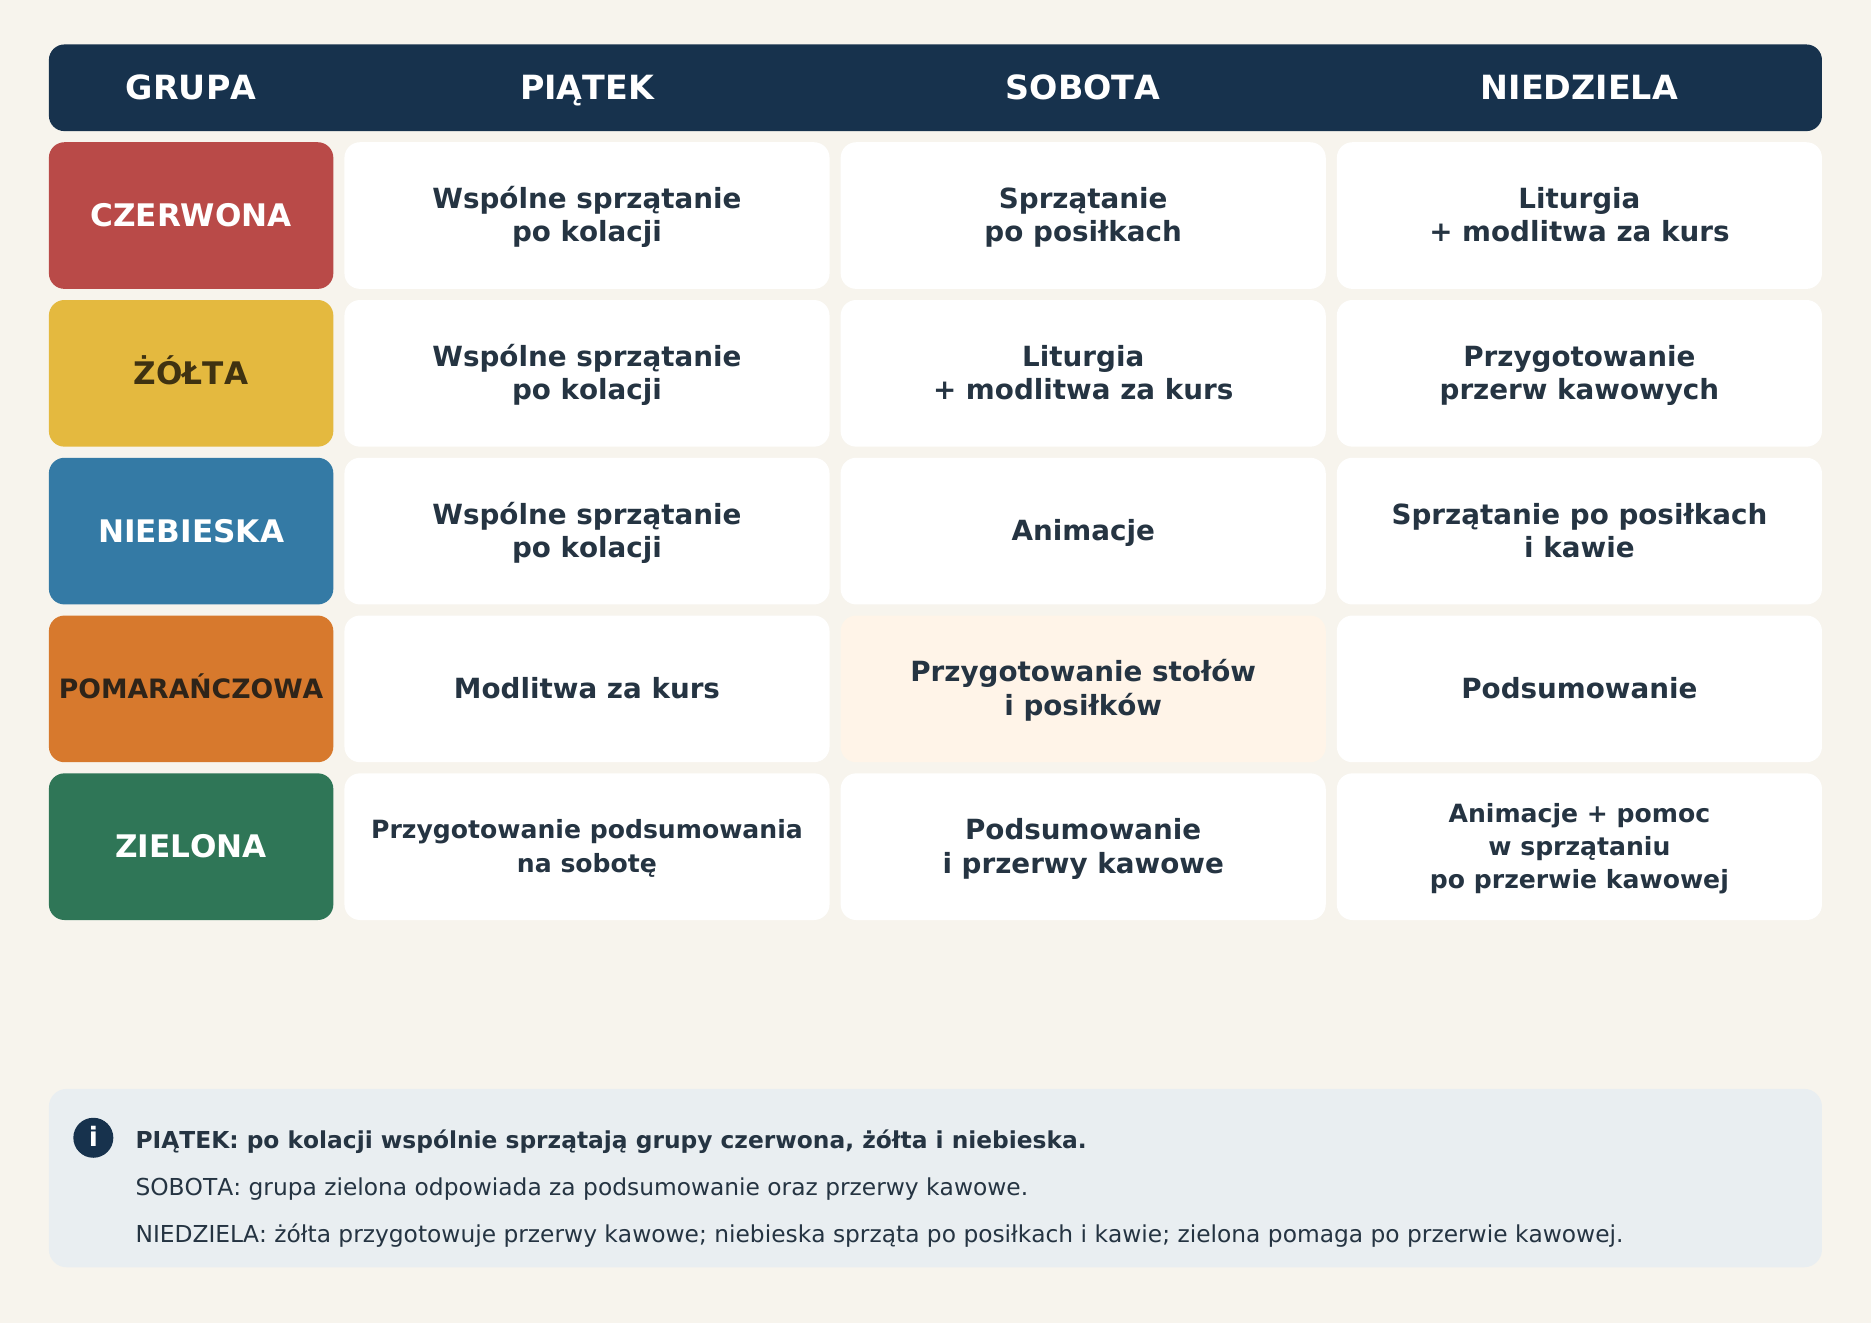
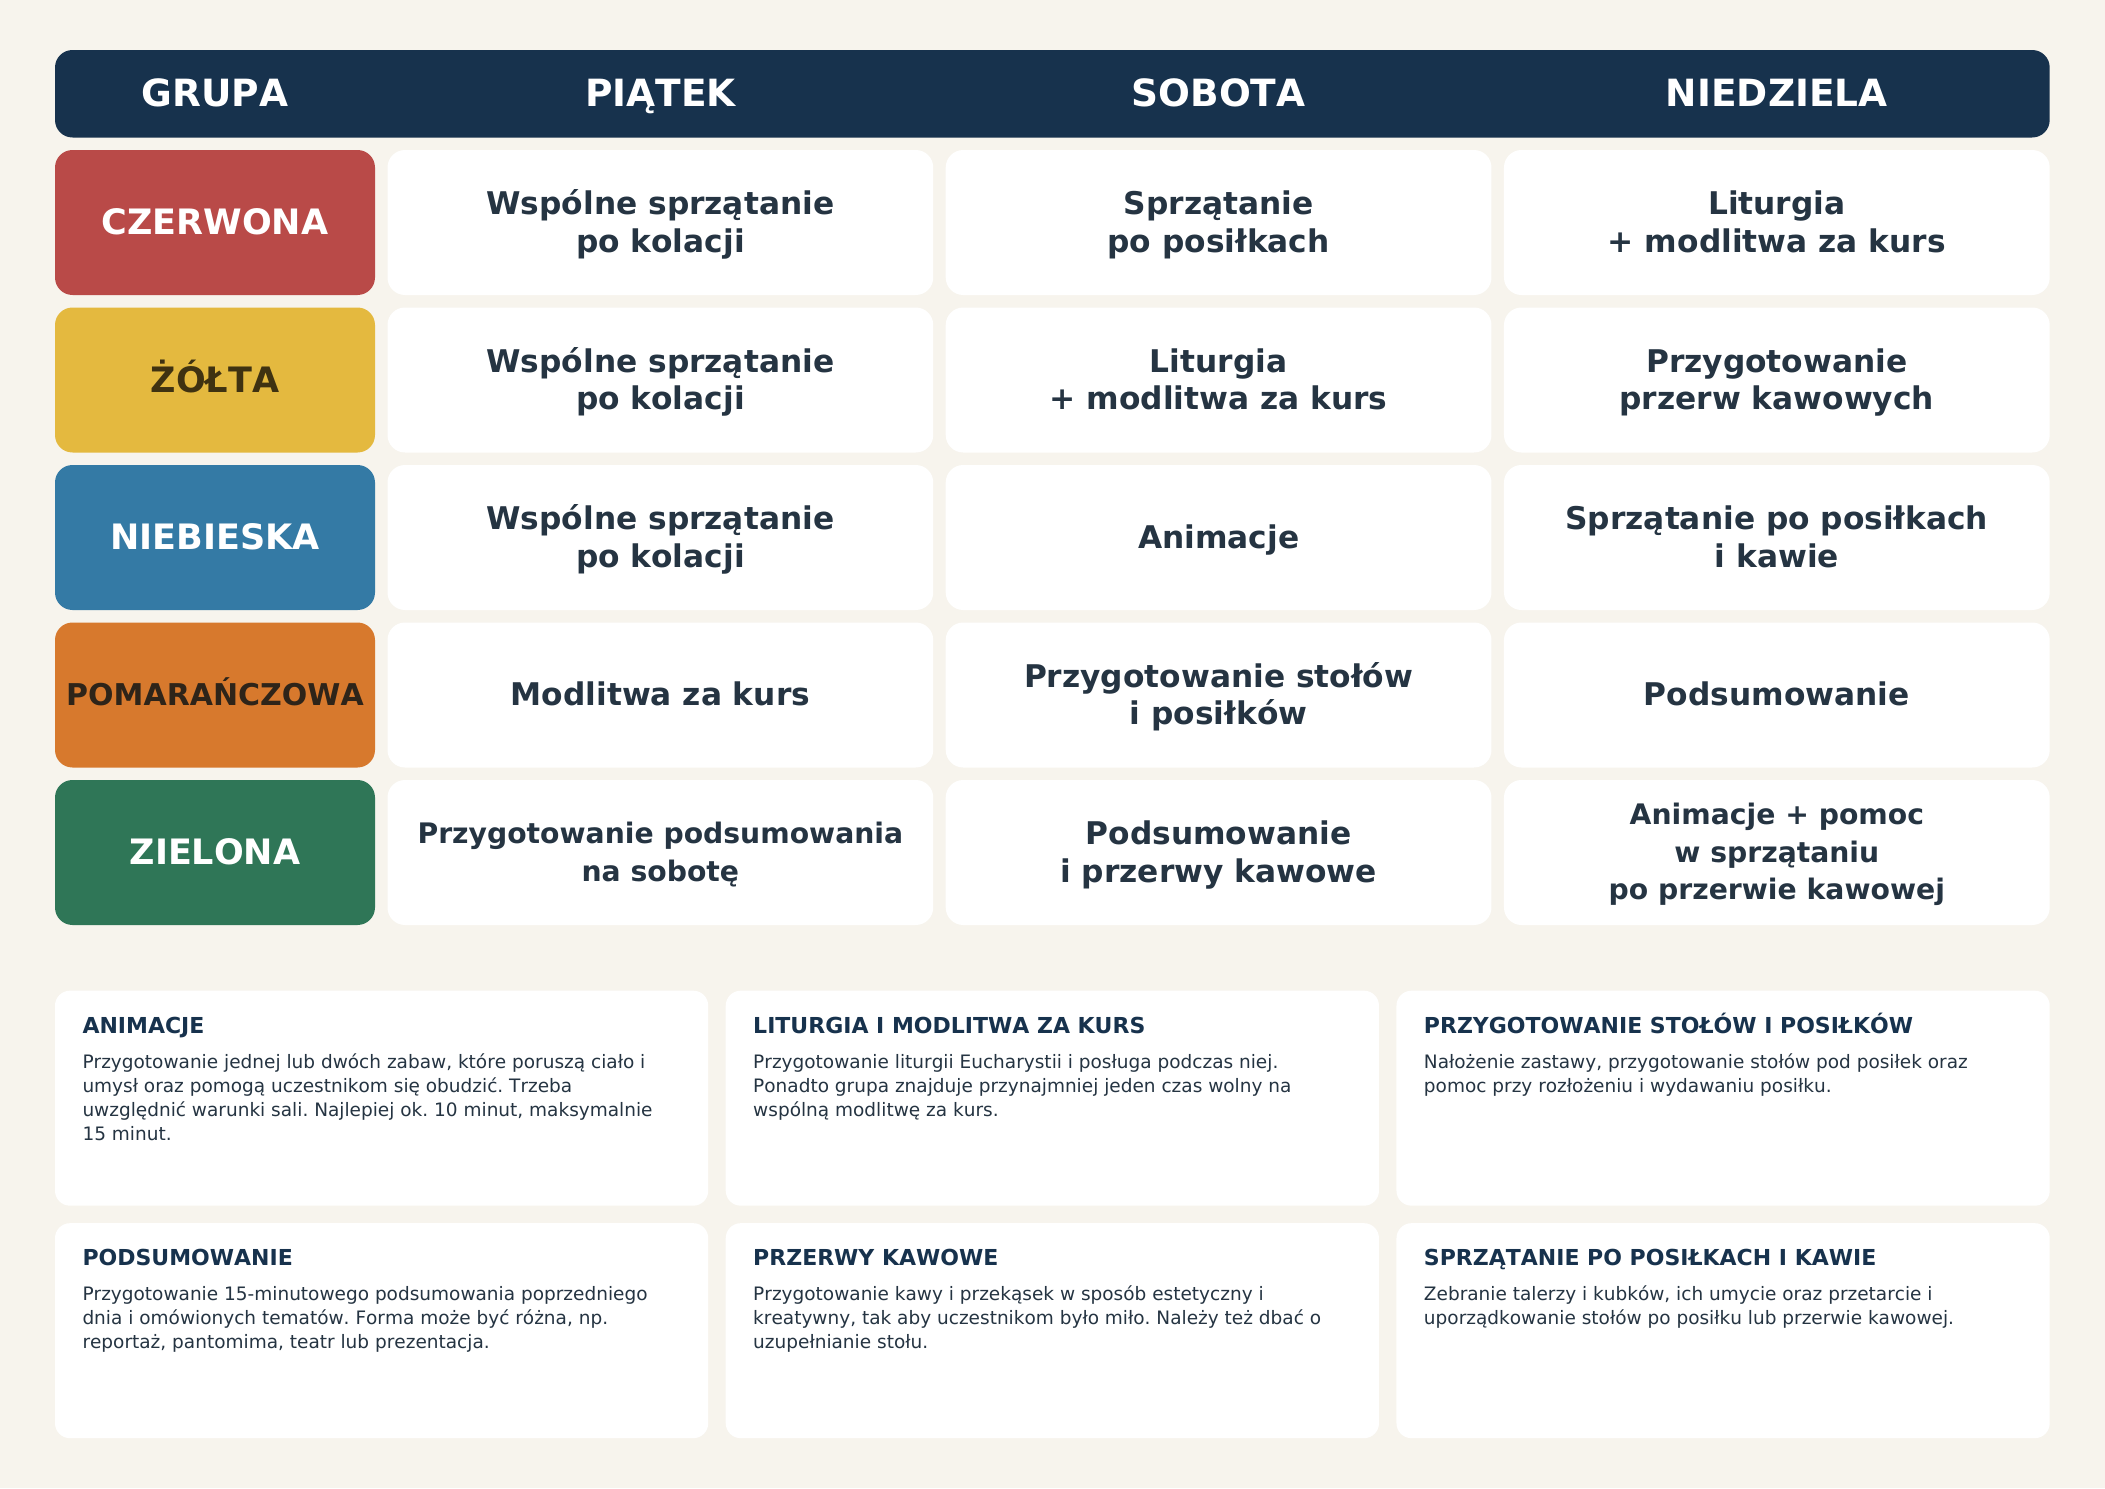
Updates.

diff --git a/tmp/pdfs/create_plan_poslug_a4.py b/tmp/pdfs/create_plan_poslug_a4.py
@@ -66,6 +66,36 @@ def centered_lines(c, text, x, y, w, h, size=13, leading=17, color=TEXT, bold=Tr
         c.drawCentredString(x + w / 2, baseline - index * leading, line)
 
 
+def wrap_text(text, font, size, max_width):
+    words = text.split()
+    lines = []
+    current = ""
+    for word in words:
+        candidate = word if not current else f"{current} {word}"
+        if pdfmetrics.stringWidth(candidate, font, size) <= max_width:
+            current = candidate
+        else:
+            if current:
+                lines.append(current)
+            current = word
+    if current:
+        lines.append(current)
+    return lines
+
+
+def legend_card(c, x, y, w, h, title, body):
+    rounded_rect(c, x, y, w, h, WHITE, 6)
+    c.setFillColor(NAVY)
+    c.setFont("DejaVu-Bold", 8.8)
+    c.drawString(x + 11, y + h - 17, title.upper())
+    lines = wrap_text(body, "DejaVu", 7.4, w - 22)
+    c.setFillColor(TEXT)
+    c.setFont("DejaVu", 7.4)
+    start_y = y + h - 31
+    for idx, line in enumerate(lines[:7]):
+        c.drawString(x + 11, start_y - idx * 9.6, line)
+
+
 c = canvas.Canvas(str(OUTPUT), pagesize=(PAGE_W, PAGE_H))
 c.setTitle("KAMCh 2026 - plan posług grup")
 c.setAuthor("SNE Lubecko")
@@ -77,8 +107,8 @@ top = PAGE_H - 20
 gap = 5
 group_w = 128
 day_w = (PAGE_W - 2 * margin_x - group_w - 3 * gap) / 3
-header_h = 39
-row_h = 66
+header_h = 35
+row_h = 58
 
 rounded_rect(c, margin_x, top - header_h, PAGE_W - 2 * margin_x, header_h, NAVY, 7)
 headers = [
@@ -97,30 +127,52 @@ for name, color, name_color, duties in groups:
     centered_lines(c, name, margin_x, y, group_w, row_h, size=group_size, leading=15, color=name_color)
     for idx, duty in enumerate(duties):
         x = margin_x + group_w + gap + idx * (day_w + gap)
-        cell_fill = HexColor("#FFF4E8") if name == "POMARAŃCZOWA" and idx == 1 else WHITE
-        rounded_rect(c, x, y, day_w, row_h, cell_fill, 7)
+        rounded_rect(c, x, y, day_w, row_h, WHITE, 7)
         size = 11.3 if len(duty) > 35 else 12.5
         centered_lines(c, duty, x, y, day_w, row_h, size=size, leading=15)
     y -= row_h + gap
 
-notes_y = 25
-notes_h = y - notes_y - 5
-rounded_rect(c, margin_x, notes_y, PAGE_W - 2 * margin_x, notes_h, HexColor("#E9EEF1"), 8)
 c.setFillColor(NAVY)
-c.circle(margin_x + 20, notes_y + notes_h - 22, 9, fill=1, stroke=0)
-c.setFont("DejaVu-Bold", 12)
-c.setFillColor(WHITE)
-c.drawCentredString(margin_x + 20, notes_y + notes_h - 26, "i")
+c.setFont("DejaVu-Bold", 11)
+c.drawString(margin_x, y - 8, "CO OZNACZAJĄ POSŁUGI?")
 
-note_lines = [
-    "PIĄTEK: po kolacji wspólnie sprzątają grupy czerwona, żółta i niebieska.",
-    "SOBOTA: grupa zielona odpowiada za podsumowanie oraz przerwy kawowe.",
-    "NIEDZIELA: żółta przygotowuje przerwy kawowe; niebieska sprząta po posiłkach i kawie; zielona pomaga po przerwie kawowej.",
+legend = [
+    (
+        "Animacje",
+        "Przygotowanie jednej lub dwóch zabaw, które poruszą ciało i umysł oraz pomogą uczestnikom się obudzić. Trzeba uwzględnić warunki sali. Najlepiej ok. 10 minut, maksymalnie 15 minut.",
+    ),
+    (
+        "Liturgia i modlitwa za kurs",
+        "Przygotowanie liturgii Eucharystii i posługa podczas niej. Ponadto grupa znajduje przynajmniej jeden czas wolny na wspólną modlitwę za kurs.",
+    ),
+    (
+        "Przygotowanie stołów i posiłków",
+        "Nałożenie zastawy, przygotowanie stołów pod posiłek oraz pomoc przy rozłożeniu i wydawaniu posiłku.",
+    ),
+    (
+        "Podsumowanie",
+        "Przygotowanie 15-minutowego podsumowania poprzedniego dnia i omówionych tematów. Forma może być różna, np. reportaż, pantomima, teatr lub prezentacja.",
+    ),
+    (
+        "Przerwy kawowe",
+        "Przygotowanie kawy i przekąsek w sposób estetyczny i kreatywny, tak aby uczestnikom było miło. Należy też dbać o uzupełnianie stołu.",
+    ),
+    (
+        "Sprzątanie po posiłkach i kawie",
+        "Zebranie talerzy i kubków, ich umycie oraz przetarcie i uporządkowanie stołów po posiłku lub przerwie kawowej.",
+    ),
 ]
-c.setFillColor(TEXT)
-for idx, line in enumerate(note_lines):
-    c.setFont("DejaVu-Bold" if idx == 0 else "DejaVu", 10.5)
-    c.drawString(margin_x + 39, notes_y + notes_h - 27 - idx * 21, line)
+
+legend_gap = 7
+legend_w = (PAGE_W - 2 * margin_x - 2 * legend_gap) / 3
+legend_h = 86
+legend_bottom = 20
+for idx, (title, body) in enumerate(legend):
+    col = idx % 3
+    row = 1 - idx // 3
+    lx = margin_x + col * (legend_w + legend_gap)
+    ly = legend_bottom + row * (legend_h + legend_gap)
+    legend_card(c, lx, ly, legend_w, legend_h, title, body)
 
 c.showPage()
 c.save()
